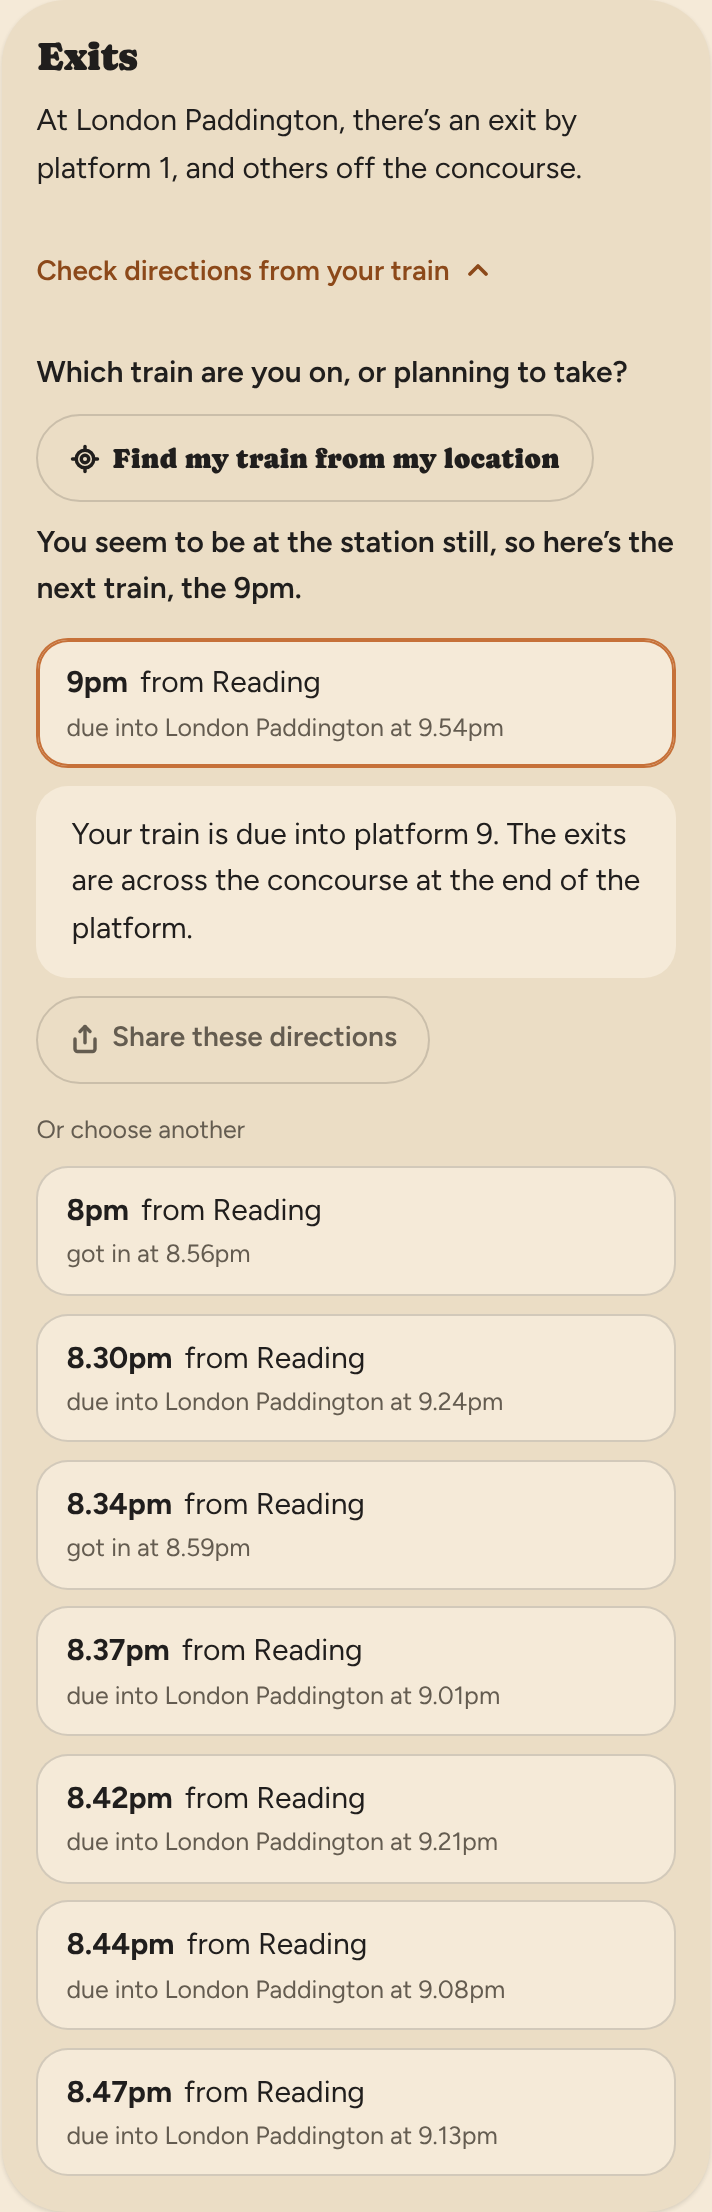
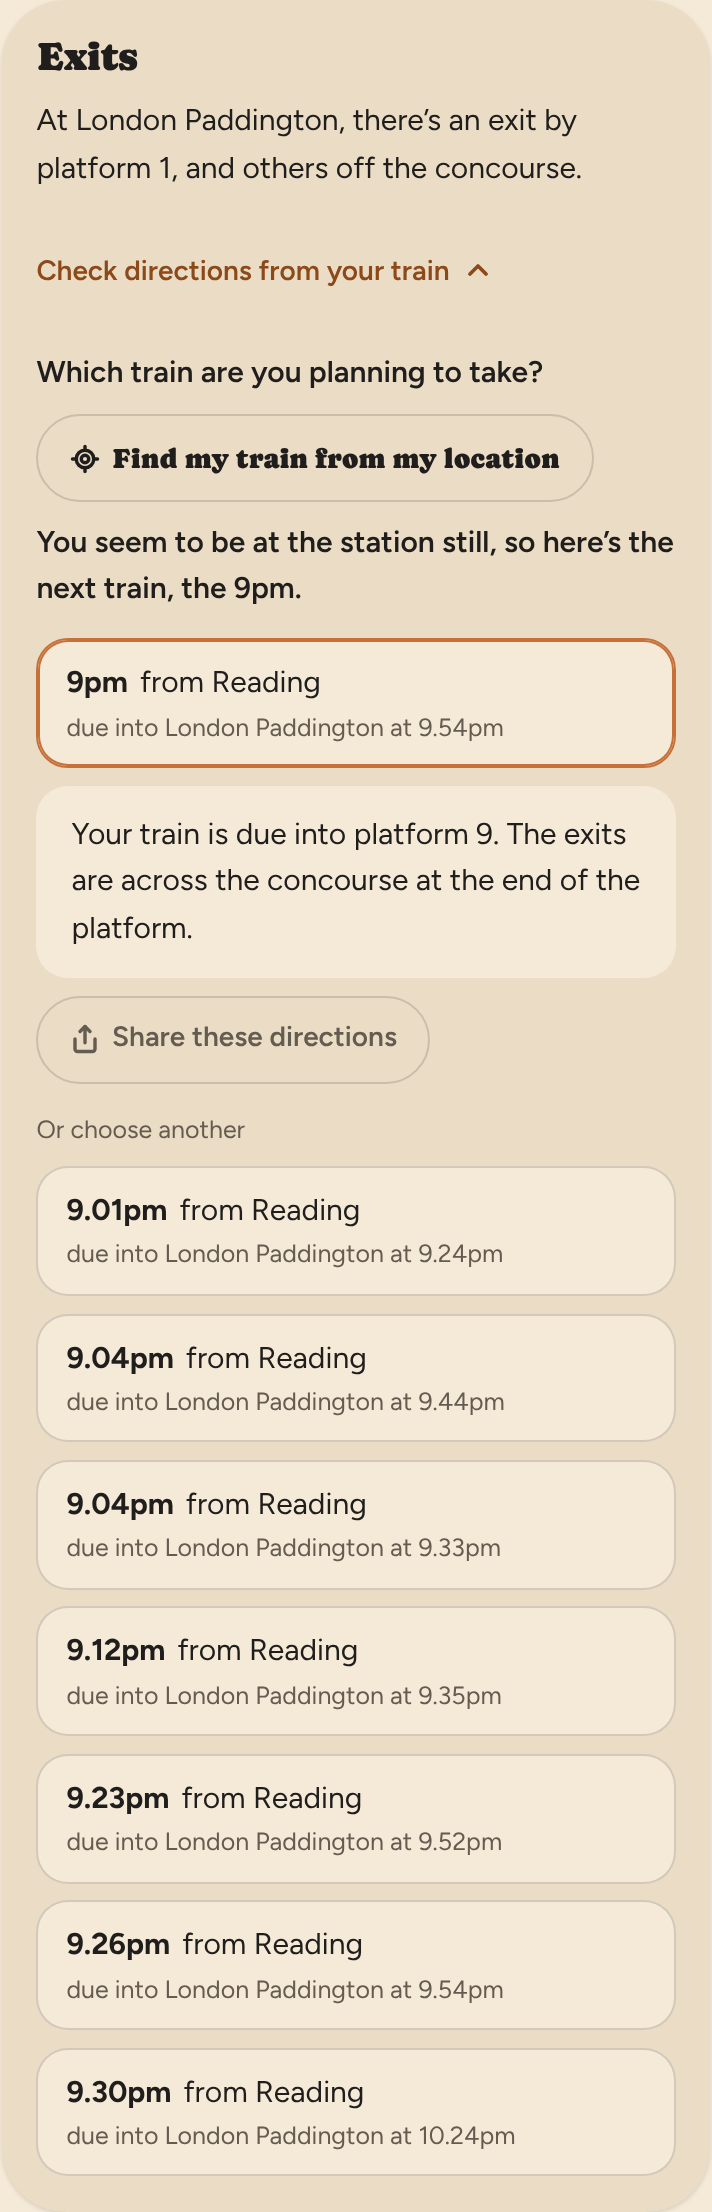
Find my train: at A, list only trains still to leave (John, at Reading)
Claude-Session: https://claude.ai/code/session_01BsvHLJXmw3oprEBv3k7dfG

diff --git a/src/components/Connection.tsx b/src/components/Connection.tsx
@@ -42,9 +42,12 @@ export function Connection({ a }: { a: Analysis }) {
 
   // The trains you might be on: not cancelled, leaving A within two hours, and still on their way or
   // arrived within the last three minutes (John, November 21st 2026).
-  const mines = useMemo(() => [...a.past, ...a.ahead].filter((s) => !s.cancelled && s.sta && s.rel <= 120).map((s) => ({ s, m: mineOf(s) }))
-    .filter(({ m, s }) => (m.exp ? diff(a.now, m.exp) >= -3 : s.rel >= -120)).slice(0, 8), [a])
-  const mine: Mine | null = mines.find(({ m }) => m.id === mineId)?.m ?? null
+  const all = useMemo(() => [...a.past, ...a.ahead].filter((s) => !s.cancelled && s.sta && s.rel <= 120).map((s) => ({ s, m: mineOf(s) }))
+    .filter(({ m, s }) => (m.exp ? diff(a.now, m.exp) >= -3 : s.rel >= -120)), [a])
+  // What the list shows: the first eight, or at A only the trains still to leave (FindMyTrain).
+  const [only, setOnly] = useState<string[] | null>(null)
+  const mines = useMemo(() => (only ? all.filter(({ s }) => only.includes(s.id)) : all).slice(0, 8), [all, only])
+  const mine: Mine | null = all.find(({ m }) => m.id === mineId)?.m ?? null
 
   useEffect(() => {
     if (!open) return
@@ -88,7 +91,7 @@ export function Connection({ a }: { a: Analysis }) {
     if (!ans || result.s !== 'ok') return
     setShared('')
     const d = result.d, taken = new Date(d.taken)
-    const left = mines.find(({ m }) => m.id === mineId)?.s.std
+    const left = all.find(({ m }) => m.id === mineId)?.s.std
     // The heading is John's (November 21st 2026).
     const canvas = answerImage({ heading: `Changing at ${a.to} for ${d.toName}${left ? ` from the ${t12(left)} ${a.from} train` : ''}`, text: ans.text, edge: EDGE[ans.kind], when: `${dayName(taken)}, ${t12(clock(d.taken))}` })
     const r = await deliverImage(canvas, `trainchecker-connection-${a.fromCrs}-${a.toCrs}-${d.to}.png`,
@@ -126,7 +129,7 @@ export function Connection({ a }: { a: Analysis }) {
   )
   // The trains "Find my train from my location" found go first, with "Or choose another" above the
   // rest (John, November 26th 2026); each list puts the answer under its own row.
-  const found = mines.filter(({ s }) => near.includes(s.id))
+  const found = all.filter(({ s }) => near.includes(s.id))
   const rest = mines.filter(({ s }) => !near.includes(s.id))
   const list = (l: typeof mines) => {
     const after = rowEnd(l.findIndex(({ m }) => m.id === mineId), cols, l.length)
@@ -157,9 +160,10 @@ export function Connection({ a }: { a: Analysis }) {
       {dest && (
         <div className="cstep">
           <p className="cq">{whichTrain(a.now, mines.map(({ s }) => s))}</p>
-          <FindMyTrain a={a} trains={mines.map(({ s }) => s)} onFound={(pick, ids) => {
+          <FindMyTrain a={a} trains={all.map(({ s }) => s)} onFound={(pick, ids, show) => {
             setNear(ids)
-            const m = mines.find(({ s }) => s.id === pick)?.m
+            setOnly(show)
+            const m = all.find(({ s }) => s.id === pick)?.m
             if (m) { if (m.id !== mineId) { setResult({ s: 'idle' }); setChosen(null) } setMineId(m.id) }
           }} />
           {found.length > 0 && <div className="cmines" role="group" aria-label={`Trains near you from ${a.from}`}>{list(found)}</div>}

diff --git a/src/components/FindMyTrain.tsx b/src/components/FindMyTrain.tsx
@@ -7,7 +7,7 @@
 // the list, with "Or choose another" above the rest (John).
 import { useState } from 'react'
 import { diff, isTime, type Analysis, type Service } from '../lib/analyse.ts'
-import { findTrain, ukMinutes, type Found, type Positions } from '../lib/findTrain.ts'
+import { findTrain, rel, ukMinutes, type Found, type Positions } from '../lib/findTrain.ts'
 import { t12 } from '../lib/sentences.ts'
 import { Icon } from './Icon.tsx'
 
@@ -41,14 +41,21 @@ function said(st: State, a: Analysis, trains: Service[]): string | null {
   }
 }
 
-/** `onFound` gets the train to choose (one, or the next at A) and the trains to mark (two). */
-export function FindMyTrain({ a, trains, onFound }: { a: Analysis; trains: Service[]; onFound: (pick: string | null, near: string[]) => void }) {
+/** Still at A, the list shows only trains still to leave, or that left in the last JUST_GONE
+ *  minutes (John, November 26th 2026, on the train at Reading: at 10.02 the list was all trains
+ *  that had gone). A train "Delayed" with no time hasn't left. */
+export const JUST_GONE = 2
+
+/** `onFound` gets the train to choose (one, or the next at A), the trains to mark (two), and, at A,
+ *  the trains to show instead of the usual list (null: the usual list). `trains` is every train
+ *  the list could hold, not just the eight it shows. */
+export function FindMyTrain({ a, trains, onFound }: { a: Analysis; trains: Service[]; onFound: (pick: string | null, near: string[], only: string[] | null) => void }) {
   const [st, setSt] = useState<State>({ s: 'idle' })
   if (typeof navigator === 'undefined' || !navigator.geolocation || !trains.some((t) => gone(a.now, t))) return null
 
   const find = () => {
     setSt({ s: 'busy' })
-    onFound(null, [])
+    onFound(null, [], null)
     const pos = import('../data/station-pos.json').then((m) => m.default as unknown as Positions)
     navigator.geolocation.getCurrentPosition(
       async (p) => {
@@ -56,9 +63,13 @@ export function FindMyTrain({ a, trains, onFound }: { a: Analysis; trains: Servi
           const found = findTrain({ lat: p.coords.latitude, lon: p.coords.longitude, accuracy: p.coords.accuracy }, ukMinutes(new Date()),
             a.fromCrs, a.toCrs, a.stops.map(([c]) => c), trains, await pos)
           setSt({ s: 'done', found })
-          if (found.kind === 'one') onFound(found.id, [found.id])
-          else if (found.kind === 'two') onFound(null, found.ids)
-          else if (found.kind === 'atA' && found.next) onFound(found.next, [found.next])
+          if (found.kind === 'one') onFound(found.id, [found.id], null)
+          else if (found.kind === 'two') onFound(null, found.ids, null)
+          else if (found.kind === 'atA') {
+            const now = ukMinutes(new Date())
+            const only = trains.filter((t) => t.etd === 'Delayed' || rel(now, isTime(t.etd) ? t.etd : t.std) >= -JUST_GONE).map((t) => t.id)
+            onFound(found.next, found.next ? [found.next] : [], only.length ? only : null)
+          }
         } catch {
           setSt({ s: 'lost' })
         }

diff --git a/src/components/Exits.tsx b/src/components/Exits.tsx
@@ -28,13 +28,16 @@ export function Exits({ a }: { a: Analysis }) {
     return () => { current = false }
   }, [])
   // The trains you might be on, as in Connections.
-  const mines = useMemo(() => [...a.past, ...a.ahead].filter((s) => !s.cancelled && s.sta && s.rel <= 120).map((s) => ({ s, m: mineOf(s) }))
+  const all = useMemo(() => [...a.past, ...a.ahead].filter((s) => !s.cancelled && s.sta && s.rel <= 120).map((s) => ({ s, m: mineOf(s) }))
     .filter(({ m, s }) => (m.exp ? diff(a.now, m.exp) >= -3 : s.rel >= -120))
     // A train that ends here isn't offered when its platform can't be seen (John, November 22nd 2026:
     // "we don't ask what train they're on, so then we don't have to say we don't know"). With the
     // arrival board (November 25th 2026) it can be, so every train is offered.
-    .filter(({ s }) => a.arr !== null || s.destination !== a.to).slice(0, 8), [a])
-  const pick = mines.find(({ m }) => m.id === mineId)
+    .filter(({ s }) => a.arr !== null || s.destination !== a.to), [a])
+  // What the list shows: the first eight, or at A only the trains still to leave (FindMyTrain).
+  const [only, setOnly] = useState<string[] | null>(null)
+  const mines = useMemo(() => (only ? all.filter(({ s }) => only.includes(s.id)) : all).slice(0, 8), [all, only])
+  const pick = all.find(({ m }) => m.id === mineId)
   const e = table?.[a.toCrs]
   const arr = pick ? pick.m.exp ?? pick.m.sta ?? '' : ''
   useEffect(() => {
@@ -67,7 +70,7 @@ export function Exits({ a }: { a: Analysis }) {
   )
   // The trains "Find my train from my location" found go first, with "Or choose another" above the
   // rest (John, November 26th 2026); each list puts the answer under its own row.
-  const found = mines.filter(({ s }) => near.includes(s.id))
+  const found = all.filter(({ s }) => near.includes(s.id))
   const rest = mines.filter(({ s }) => !near.includes(s.id))
   const list = (l: typeof mines) => {
     const after = rowEnd(l.findIndex(({ m }) => m.id === mineId), cols, l.length)
@@ -92,9 +95,10 @@ export function Exits({ a }: { a: Analysis }) {
         <summary>Check directions from your train <Icon name="down" /></summary>
         <div className="cstep">
           <p className="cq">{whichTrain(a.now, mines.map(({ s }) => s))}</p>
-          <FindMyTrain a={a} trains={mines.map(({ s }) => s)} onFound={(pick, ids) => {
+          <FindMyTrain a={a} trains={all.map(({ s }) => s)} onFound={(pick, ids, show) => {
             setNear(ids)
-            const m = mines.find(({ s }) => s.id === pick)?.m
+            setOnly(show)
+            const m = all.find(({ s }) => s.id === pick)?.m
             if (m) { if (m.id !== mineId) setGot({ s: 'idle' }); setMineId(m.id) }
           }} />
           {found.length > 0 && <div className="cmines" role="group" aria-label={`Trains near you from ${a.from}`}>{list(found)}</div>}

diff --git a/src/lib/findTrain.ts b/src/lib/findTrain.ts
@@ -47,7 +47,7 @@ export function ukMinutes(d: Date): number {
 }
 
 /** Minutes from now to a clock time, wrapped to -12h..+12h (so just after midnight works). */
-function rel(now: number, t: string): number {
+export function rel(now: number, t: string): number {
   let d = mins(t) - now
   if (d < -720) d += 1440
   if (d > 720) d -= 1440

diff --git a/CLAUDE.md b/CLAUDE.md
@@ -74,6 +74,18 @@ given its own branch). Before committing there, run
 
 ## Log
 
+### November 26th 2026: "Find my train from my location": still at A, only trains still to leave (branch `claude/happy-darwin-mmnd4m`, not merged; Claude Code)
+
+- **John (iPhone, at Reading at 10.02am, Reading to Paddington):** "You seem to be at the station still. Please choose
+  the train you're planning to take." over a list of trains that had all gone. Cause: the list holds the first eight
+  trains, and at 10.02 all eight had left, so the next one wasn't among them and couldn't be chosen. **John:** at A, show
+  trains that haven't left, or left very recently.
+- **Built:** the matching gets every train, not just the eight shown; at A the list shows only trains still to leave or
+  gone in the last two minutes (`JUST_GONE` in `FindMyTrain.tsx`; "Delayed" with no time counts as not gone), the next
+  one chosen; the question then reads "Which train are you planning to take?". "On" kept in the answers (John).
+- **Checked:** all checks (check-find 76), `tsc -b`, lint, build; `shoot.mjs` again: at Reading at 8.59pm the 9pm chosen
+  and only later trains below it; the other answers unchanged; no errors, no sideways scroll. Not checked: a real phone.
+
 ### November 26th 2026: "Find my train from my location": John's wording, found trains first, About (branch `claude/happy-darwin-mmnd4m`, not merged; Claude Code)
 
 - **John:** "This looks great"; wording changes ("From your location", "at the moment", "Finding your location…", no

diff --git a/design/find-my-train/README.md b/design/find-my-train/README.md
@@ -125,4 +125,7 @@ so the button rightly stays hidden; the Connections pictures set the clock to 3.
 give "one of these two" there. The saved boards predate the arrival board, so for Exits the
 pictures make one up from the departures (illustration only).
 
+**Still at A (John, at Reading, November 26th 2026):** the list then shows only trains still to leave, or gone
+in the last two minutes, and the next is chosen; the matching looks at every train, not just the eight shown.
+
 **Not done yet:** tried on a real phone on a real train (John, on a journey on November 26th).
